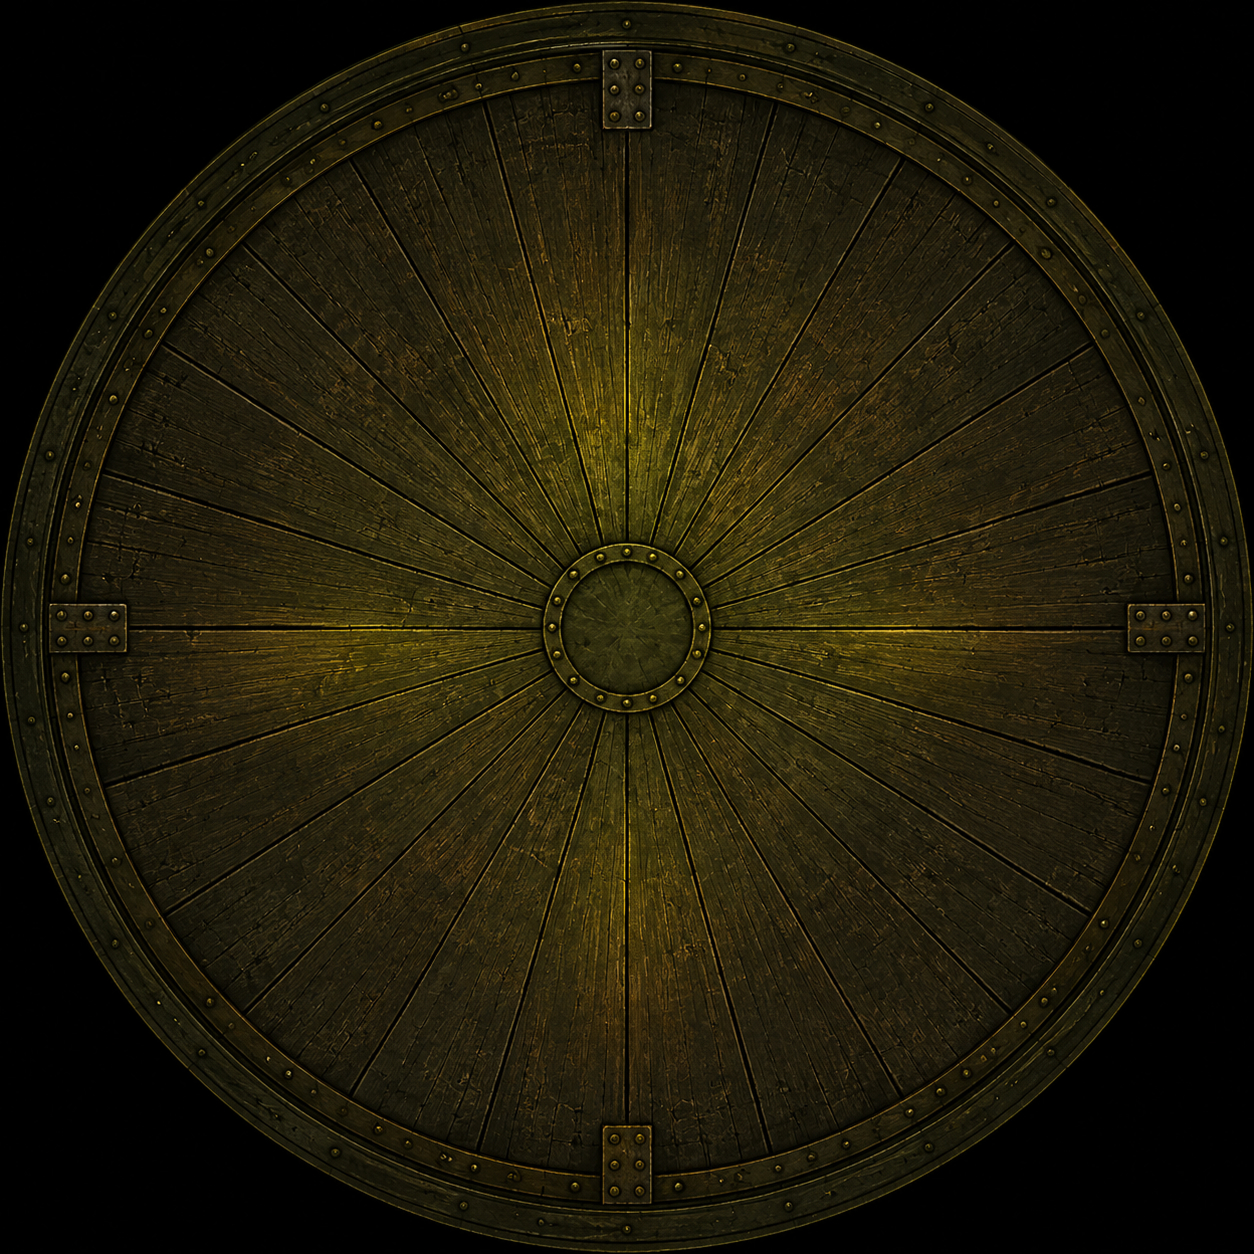
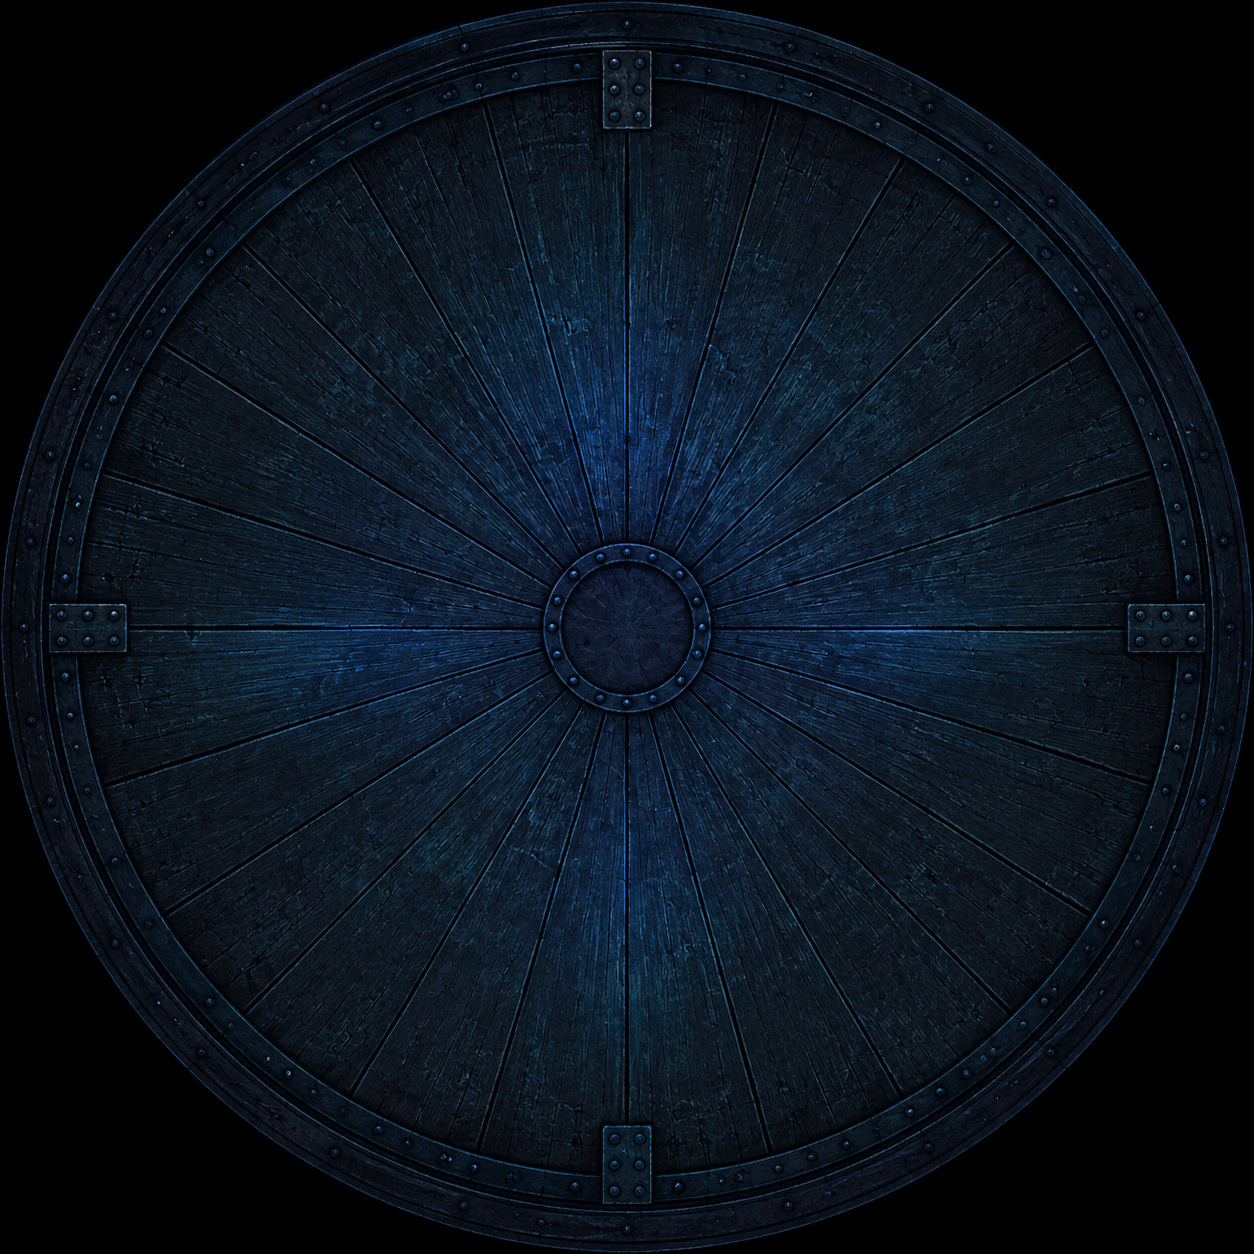
feat: игра переезжает в синие тона
Задник, столешница и подсветка выбора перекрашены сдвигом тона: рисунок
и кадр те же до пикселя, поэтому круг стола на полу остался ровно там,
где был, а тени и фактура пережили перекраску.

Подсветку выбора крутили отдельно: тот же сдвиг, что у комнаты, увёл бы
зелёное свечение в пурпур, а не в синь.

Интерфейс: кнопки, бейдж действия, прицел ходящего, обводка комнат в
лаунчере и последняя строка лога. Красный и жёлтый не трогали — это
семантика (необратимое действие и вмешательство хоста), как и зелёный
успех с красным провалом на треке миссий.

Claude-Session: https://claude.ai/code/session_01PVKSEuVwHbtyU9zvhPy7g2

diff --git a/src/client/styles/buttons.scss b/src/client/styles/buttons.scss
@@ -2,32 +2,32 @@
 // вертикальный градиент от светлого края цвета к почти чёрному, скруглённые
 // углы, белая подпись и тень под кнопкой.
 //
-// Цвет остаётся за кнопкой: зелёная — обычное действие, красная — то, чего уже
+// Цвет остаётся за кнопкой: синяя — обычное действие, красная — то, чего уже
 // не отменить, жёлтая — вмешательство хоста. Меняется только форма, поэтому
 // пары «верх–низ» заданы руками, а не выведены из одного цвета: у каждой пары
-// низ уходит в свой оттенок тени, как у зелёной — в чистую зелень.
+// низ уходит в свой оттенок тени, как у синей — в глубокую синь.
 
 // Обычное действие. Этой парой покрашена «Создай игру» — она и есть образец.
-$button-green-top: #6c920e;
-$button-green-bottom: #005213;
+$button-blue-top: #0e6c92;
+$button-blue-bottom: #002852;
 
 // Выход из игры, кик — то, что не отменить.
 $button-danger-top: #922e0e;
 $button-danger-bottom: #520500;
 
 // Бейдж текущего действия: ярче кнопок, потому что он не жмётся, а кричит.
-$button-lime-top: #a4c40d;
-$button-lime-bottom: #5c7a06;
+$button-lime-top: #0da0c4;
+$button-lime-bottom: #064a7a;
 
 // Вмешательство хоста в чужую судьбу: кик из лобби.
 $button-warning-top: #d8bb00;
 $button-warning-bottom: #5a4a00;
 
 // Не действие, а состояние: переключатель в меню стола.
-$button-muted-top: #3f4a2a;
-$button-muted-bottom: #1c2410;
+$button-muted-top: #2a3c4a;
+$button-muted-bottom: #101a24;
 
-@mixin button($top: $button-green-top, $bottom: $button-green-bottom, $radius: 5px) {
+@mixin button($top: $button-blue-top, $bottom: $button-blue-bottom, $radius: 5px) {
 	border: 0;
 	border-radius: $radius;
 	background: linear-gradient(180deg, $top 0%, $bottom 100%);

diff --git a/src/client/components/table/ActionInteracter/styles.scss b/src/client/components/table/ActionInteracter/styles.scss
@@ -6,7 +6,7 @@
 		filter: brightness(1);
 	}
 	50% {
-		box-shadow: 0 4px 7px black, 0 0 16px 2px #d7ff5e99;
+		box-shadow: 0 4px 7px black, 0 0 16px 2px #5ed7ff99;
 		filter: brightness(1.25);
 	}
 }
@@ -19,7 +19,7 @@
 	justify-content: center;
 	z-index: 20;
 	// Бейдж — не кнопка (его не жмут), но выглядит он так же, как кнопки: то же
-	// скругление, градиент и тень. Цвет свой, ярче зелёного: это не действие, а
+	// скругление, градиент и тень. Цвет свой, ярче синего: это не действие, а
 	// требование действия.
 	.interaction-badge {
 		@include buttons.button(buttons.$button-lime-top, buttons.$button-lime-bottom, 8px);

diff --git a/src/client/components/table/Room/Room.tsx b/src/client/components/table/Room/Room.tsx
@@ -59,7 +59,7 @@ const getPositionFromPlayerList = ({players, playerId, playerList}: {players: IP
 
 // Прицел на том, чей сейчас ход. В «Сопротивлении» это лидер раунда: он один, и
 // прицел наводится ровно на него (turnPlayerId).
-const reticleColor = 0x00FF00;
+const reticleColor = 0x35C8FF;
 // Раствор прицела в долях радиуса бейджа: наведённый и в момент наводки.
 const reticleAimedShare = 1.3;
 const reticleWideShare = 2.6;

diff --git a/src/client/components/table/notifier/notifier.tsx b/src/client/components/table/notifier/notifier.tsx
@@ -18,13 +18,13 @@ const getFontStyle = (fontSize: number, maxWidth: number) => ({
     dropShadow: true,
     dropShadowAngle: 90,
     dropShadowBlur: 4,
-    dropShadowColor: "#63fe6a",
+    dropShadowColor: "#63b8fe",
     dropShadowDistance: 1,
     fill: "white",
     letterSpacing: 1,
     lineHeight: 26,
     lineJoin: "round",
-    stroke: "#91ff88",
+    stroke: "#88c4ff",
     textBaseline: "bottom",
     wordWrap: true,
     fontSize: fontSize,

diff --git a/src/client/components/lobby/style.scss b/src/client/components/lobby/style.scss
@@ -15,8 +15,8 @@ h1 {
 	justify-content: space-between;
 	display: flex;
 	&.isReady {
-		background: #009442;
-		box-shadow: 1px 8px 7px -4px #047903;
+		background: #0069a0;
+		box-shadow: 1px 8px 7px -4px #033b79;
 	}
 	.kick-button {
 		@include buttons.button(buttons.$button-warning-top, buttons.$button-warning-bottom);

diff --git a/src/client/components/gameLog/styles.scss b/src/client/components/gameLog/styles.scss
@@ -77,7 +77,7 @@
         text-align: left;
 
         .logLine:last-child .logText {
-            color: #00ff72;
+            color: #35c8ff;
         }
     }
 

diff --git a/src/client/components/launcher/style.scss b/src/client/components/launcher/style.scss
@@ -32,7 +32,7 @@
 }
 
 .nick-input {
-    border: 1px solid #007b0c;
+    border: 1px solid #0c4f7b;
 	padding:5px;
 	width:100%;
 	border-radius: 5px;
